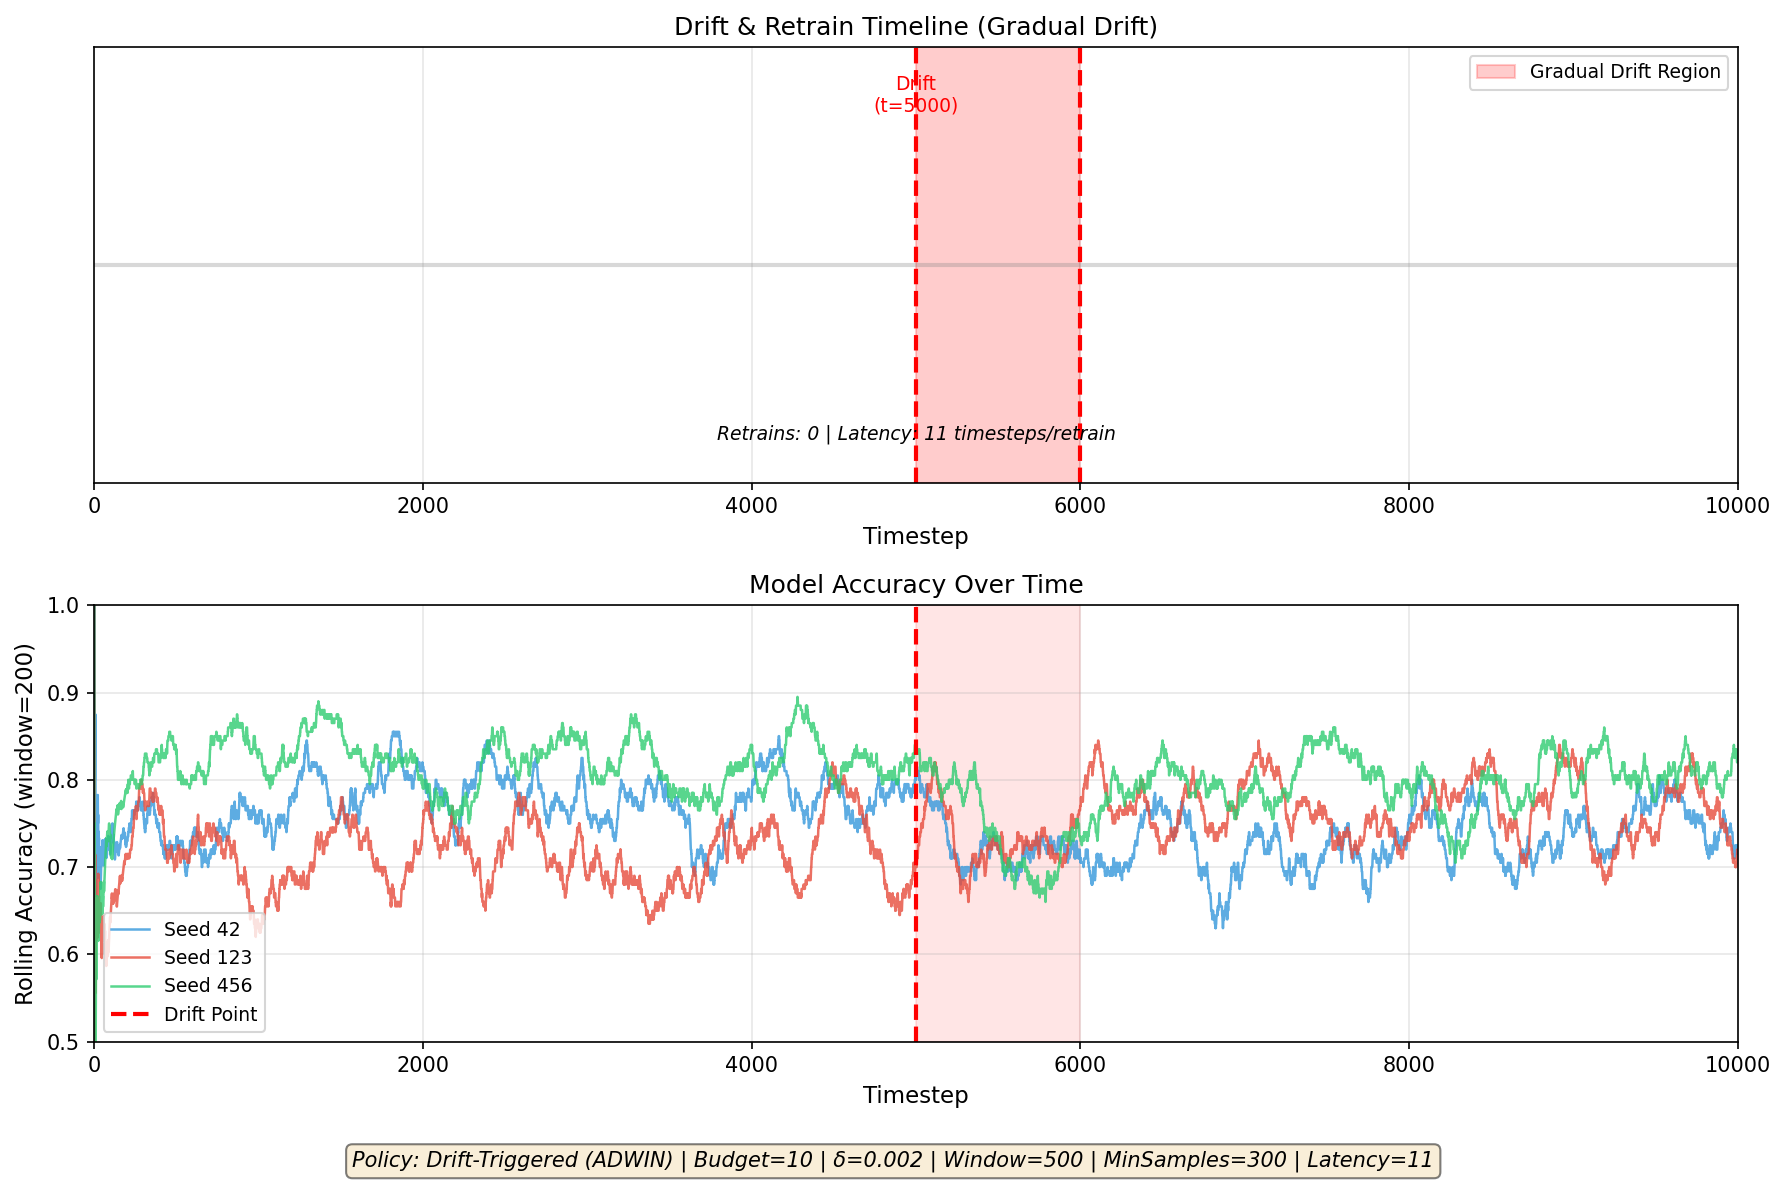
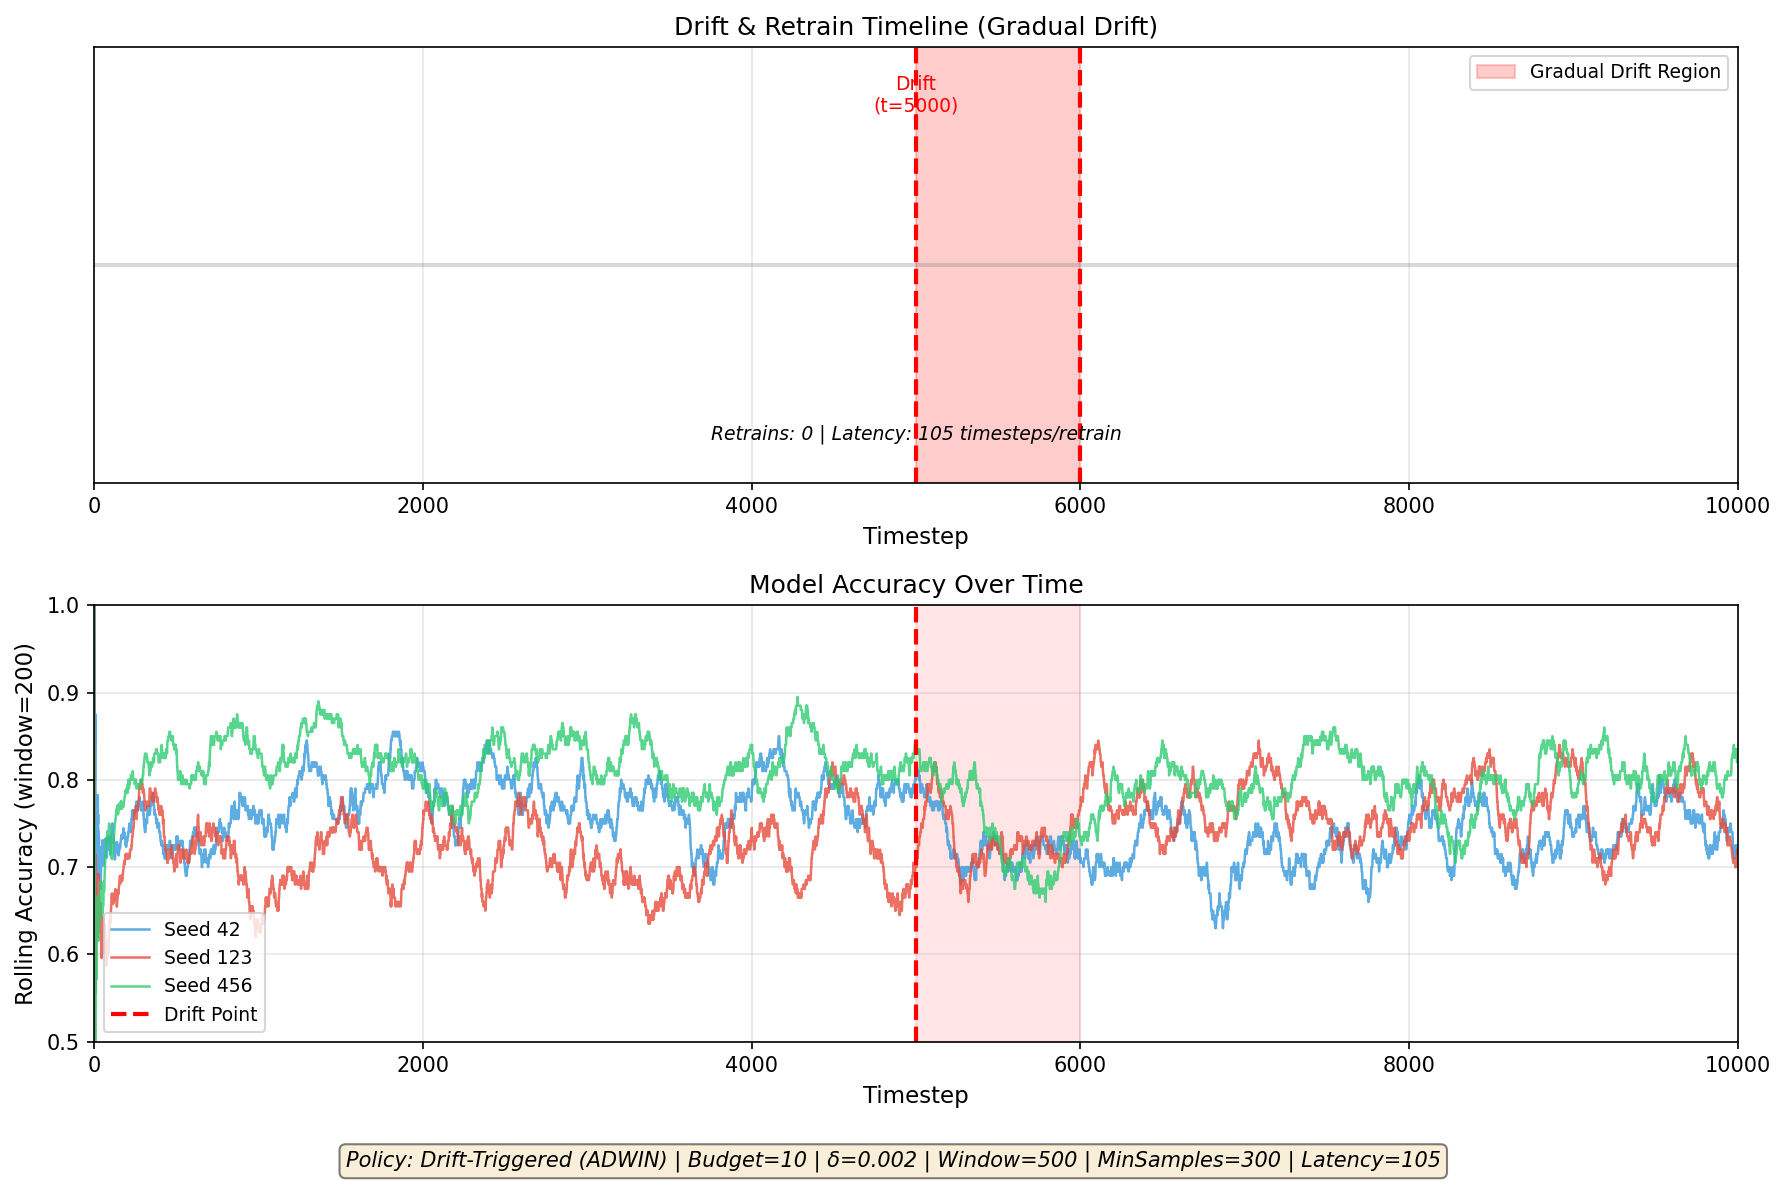
week 6: ran experiment with drift triggered retrain policy with gradual drift, med budget and med latency

Changed region(s): [[0.1849, 0.9663, 0.8319, 0.9975], [0.4006, 0.3429, 0.6162, 0.3741]]

diff --git a/main.py b/main.py
@@ -44,10 +44,10 @@ def main():
         #   window_size=500: max recent errors considered for drift detection
         #   min_samples=300: minimum observations before detection activates
         #   budget=10: allows up to 10 retrains during the experiment
-        # - Low latency: retrain_latency=10, deploy_latency=1
+        # - Med latency: retrain_latency=100, deploy_latency=5
         # - MetricsTracker: Records prediction accuracy/errors over time
         model = StreamingModel()
-        policy = DriftTriggeredPolicy(delta=0.002, window_size=500, min_samples=300, budget=10, retrain_latency=10, deploy_latency=1)
+        policy = DriftTriggeredPolicy(delta=0.002, window_size=500, min_samples=300, budget=10, retrain_latency=100, deploy_latency=5)
         metrics = MetricsTracker()
 
         # Set metadata in metrics for post-analysis
